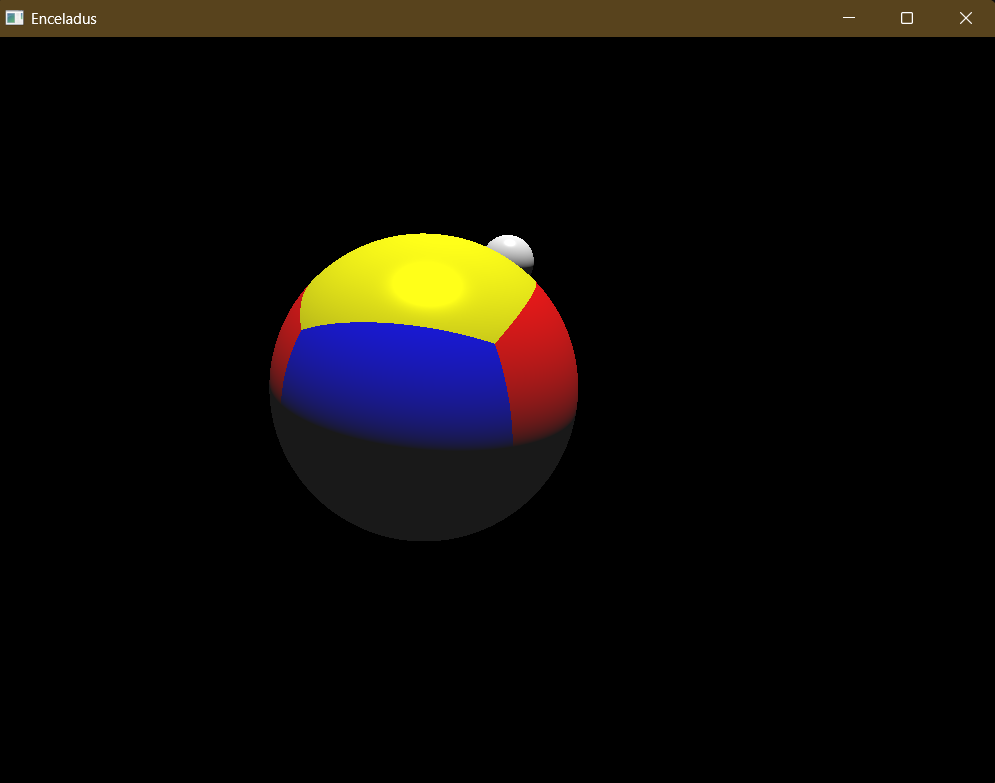
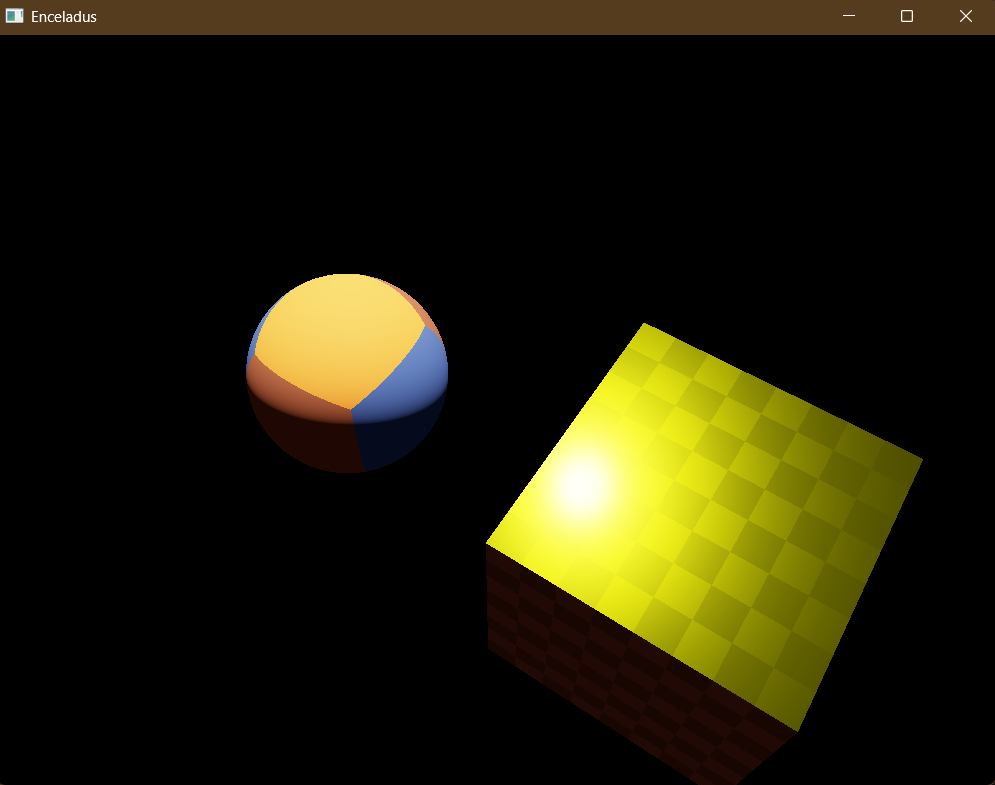
readme and sample images updated

diff --git a/README.md b/README.md
@@ -47,8 +47,8 @@ you should see a sample scene
 sample render on linux
 ![Alt text](./images/sample_1.png "Hello Triangle")
 
-sample render on windows
-![Alt text](./images/sample_2.png "eclipse")
-
 sample PBR render(widows)
-![Alt text](./images/sample_3.png "pbr sample")
+![Alt text](./images/sample_2.png "pbr sample")
+
+sample with shadow map
+![Alt text](./images/sample_3.png "shadow map sample")